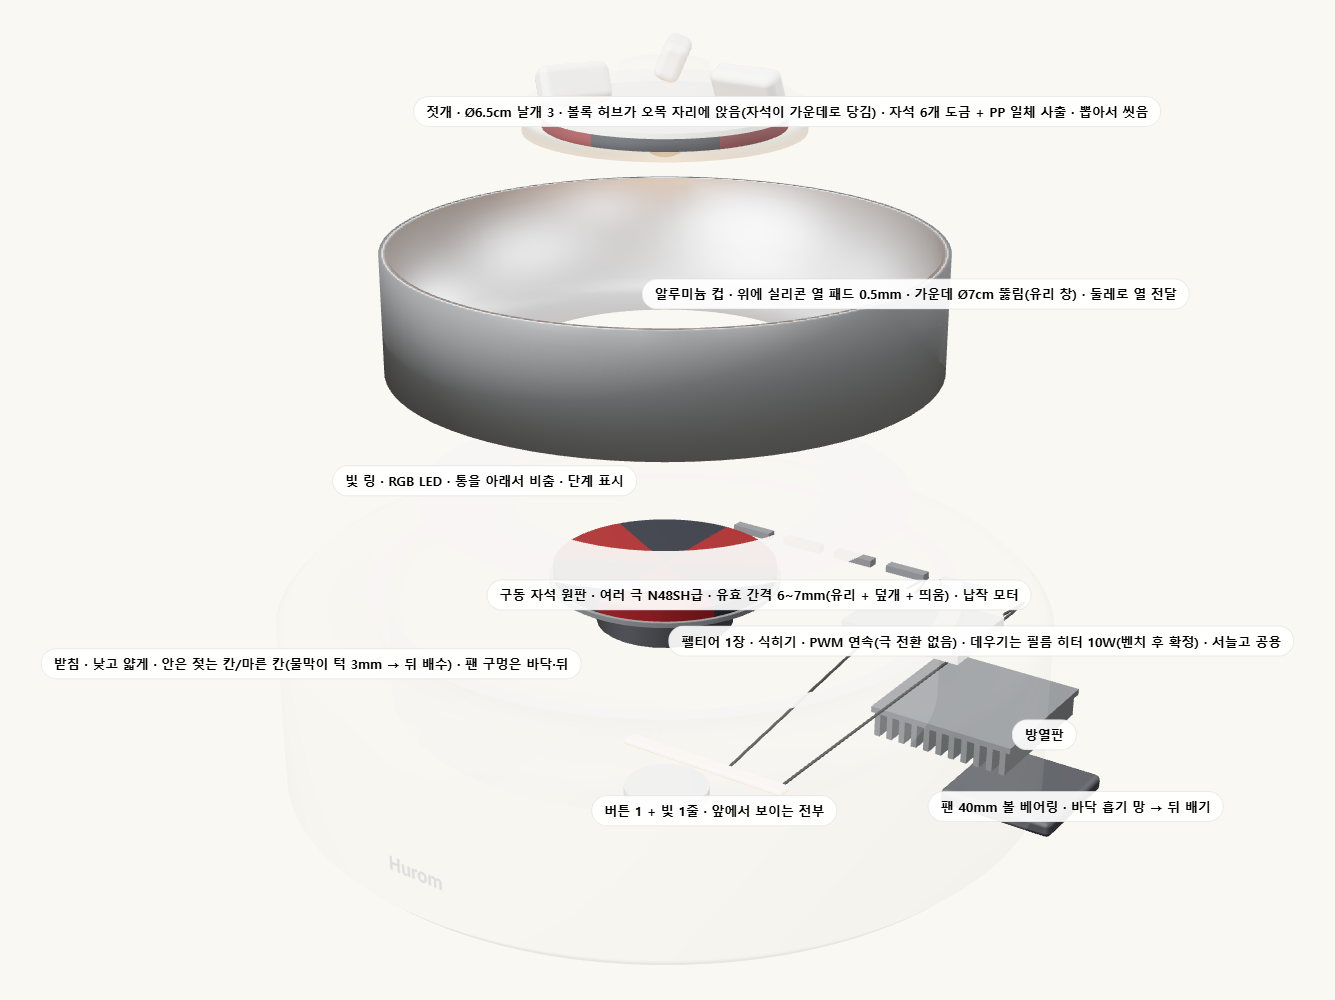
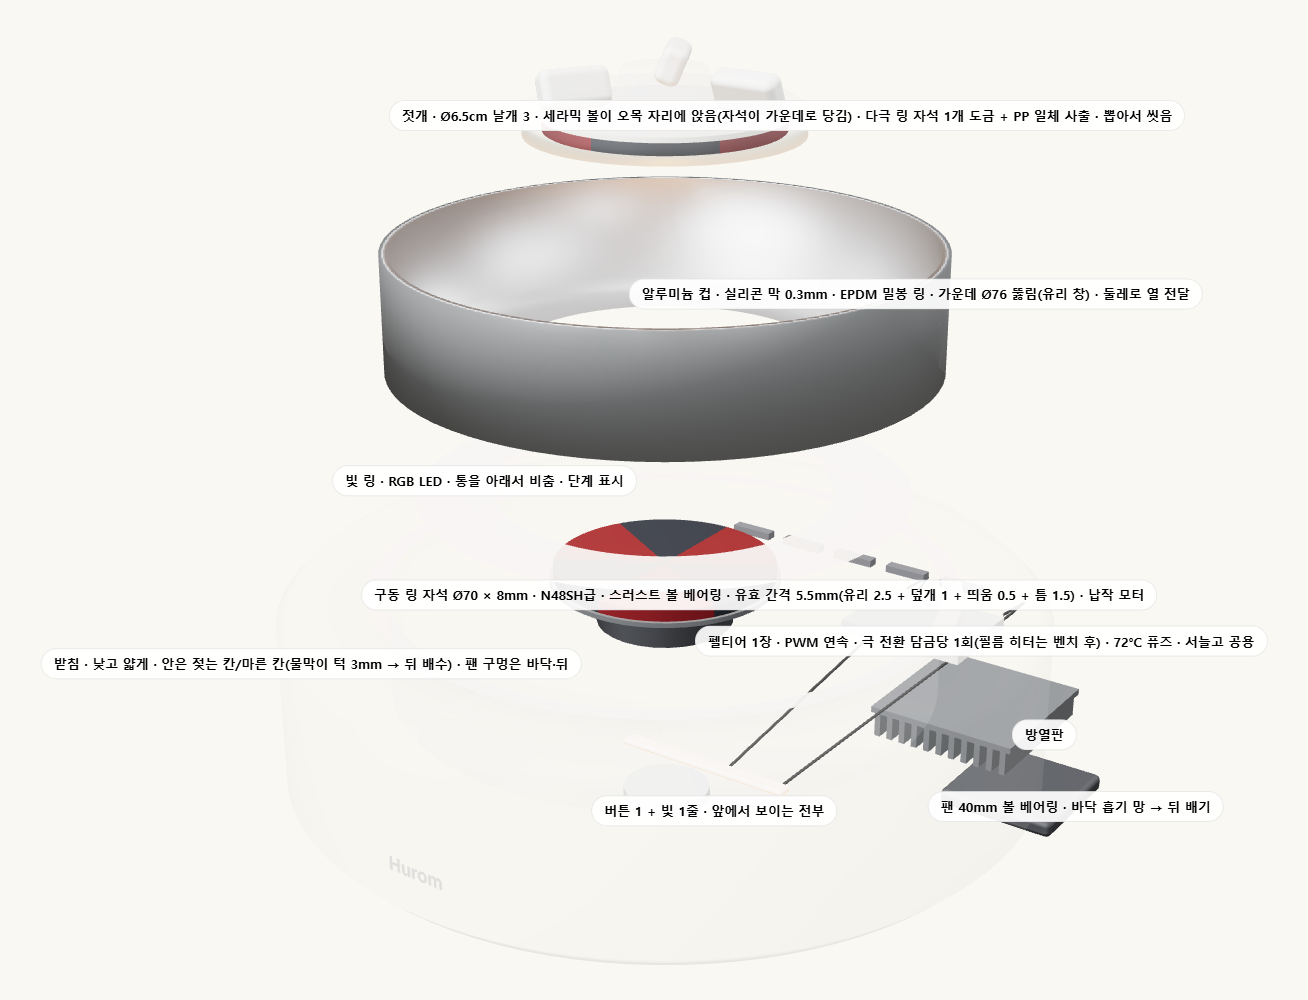
3D를 두팔 2차 구조 검토에 맞춤: 세라믹 볼 + 오목 자리 4mm · 컵 Ø76 · 구동 링 자석 Ø70×8 + 스러스트 베어링 · 간격 5.5mm · 컵 밀봉 · 펠티어 PWM/극 전환 1회/72°C 퓨즈 · 헛돎 판정 · 홀 센서 — 캡처 재생성 / 단면도 긴 라벨 두 줄(5·6·7·8·13·16)

diff --git a/explode.js b/explode.js
@@ -135,8 +135,8 @@ function build(vk) {
   parts.forEach(p => p.el.remove()); parts = []; spinners = []; woodMeshes = [];
   const BH = V.baseH, CUP_D = 0.26, CUP_Y = BH - CUP_D;    // 컵 바닥 높이
   const JH = V.jarH, JY = CUP_Y + 0.02;                     // 통 바닥 높이
-  const HR = 0.35, GT = 0.03, GAP = 0.01;                     // 컵 가운데 구멍 반지름(Ø7cm) · 유리 바닥 3mm · 틈 1mm(그림) · 실제 유효 간격은 덮개·띄움 포함 6~7mm
-  const VR = 0.325, HUBR = 0.065, DIMPLE = 0.03;              // 날개 Ø6.5cm · 젓개 볼록 허브 Ø13mm · 유리 바닥 오목 자리 깊이 3mm(돌기 없음 — 불량 재검토 2026-11-17)
+  const HR = 0.38, GT = 0.03, GAP = 0.01;                     // 컵 가운데 구멍 반지름(Ø76) · 유리 바닥 3mm · 틈(그림) · 실제 유효 간격 5.5mm(유리 2.5 + 덮개 1.0 + 띄움 0.5 + 틈 1.5) — 2차 구조 검토
+  const VR = 0.325, BALLR = 0.04, DIMPLE = 0.04;              // 날개 Ø6.5cm · 지르코니아 세라믹 볼 Ø8mm · 유리 바닥 오목 자리 깊이 4mm(돌기 없음 — 2차 구조 검토 2026-11-17)
   M.body.color.set(V.baseColor); M.body.roughness = V.baseRough; M.body.clearcoat = V.baseClear;
 
   /* 1. 받침 몸통 — 낮고 얇게. 앞에는 버튼 1 + 빛 1줄만. 팬 구멍은 바닥·뒤 */
@@ -159,7 +159,7 @@ function build(vk) {
   {
     const g = new THREE.Group();
     const cup = lathe([[HR, CUP_Y - 0.02], [V.cupR, CUP_Y - 0.02], [V.cupR, BH + 0.005], [V.cupR - 0.02, BH + 0.005], [V.cupR - 0.02, CUP_Y], [HR, CUP_Y]], M.alu, 72); g.add(cup);
-    part('알루미늄 컵 · 위에 실리콘 열 패드 0.5mm · 가운데 Ø7cm 뚫림(유리 창) · 둘레로 열 전달', g, [0, 0.85, 0], new THREE.Vector3(V.cupR, BH, 0), true);
+    part('알루미늄 컵 · 실리콘 막 0.3mm · EPDM 밀봉 링 · 가운데 Ø76 뚫림(유리 창) · 둘레로 열 전달', g, [0, 0.85, 0], new THREE.Vector3(V.cupR, BH, 0), true);
   }
   /* 3. 빛 링 — 컵 바닥의 RGB LED 링. 품목 색으로 통을 아래서 비추고, 숨쉬기·고정·깜빡임으로 단계를 알림 */
   {
@@ -175,7 +175,7 @@ function build(vk) {
     const innerP = inset(prof, 0.035); innerP[0] = [0, 0.035];
     const innerM = lathe(innerP, M.glass, 96); innerM.material = M.glass;
     g.add(outer, innerM);
-    const dimple = new THREE.Mesh(new THREE.TorusGeometry(HUBR + 0.01, 0.008, 12, 48), M.glass); dimple.rotation.x = Math.PI / 2; dimple.position.y = GT + 0.004; g.add(dimple);   // 유리 바닥 오목 자리(반구 · 깊이 3mm) — 테두리만 그림. 돌기(핀)는 뿌리 응력 때문에 없앰
+    const dimple = new THREE.Mesh(new THREE.TorusGeometry(BALLR + 0.015, 0.008, 12, 48), M.glass); dimple.rotation.x = Math.PI / 2; dimple.position.y = GT + 0.004; g.add(dimple);   // 유리 바닥 오목 자리(반구 · 깊이 4mm) — 테두리만 그림. 돌기(핀)는 뿌리 응력 때문에 없앰
     // 눈금 2줄(과일 · 설탕) — 가는 띠
     const fillY = JH * (V.jar === 'wide' ? 0.66 : 0.7);
     const syrup = lathe(syrupProfile(prof, fillY), M.syrup, 96); g.add(syrup);
@@ -190,18 +190,18 @@ function build(vk) {
       f.position.set(Math.cos(a) * rr, y + 0.03, Math.sin(a) * rr); f.rotation.set(rnd(), rnd() * 3, rnd()); fruitG.add(f);
     }
     g.position.y = JY;
-    part(`유리 통 · 약 2L · ${V.jar === 'onggi' ? '항아리형(배 Ø16 · 입 Ø12)' : V.jar === 'cyl' ? '원통 Ø14' : '넓적 Ø18'} × ${Math.round(JH * 10)}cm · 붕규산 3.3 · 구멍 없음 · 바닥 가운데 오목 자리(깊이 3mm)`, g, [0, 1.9, 0], new THREE.Vector3(V.mouthR + 0.1, JH * 0.75, 0));
+    part(`유리 통 · 약 2L · ${V.jar === 'onggi' ? '항아리형(배 Ø16 · 입 Ø12)' : V.jar === 'cyl' ? '원통 Ø14' : '넓적 Ø18'} × ${Math.round(JH * 10)}cm · 붕규산 3.3 · 구멍 없음 · 바닥 가운데 오목 자리(깊이 4mm) + 세라믹 볼`, g, [0, 1.9, 0], new THREE.Vector3(V.mouthR + 0.1, JH * 0.75, 0));
   }
-  /* 5. 젓개 — Ø6.5cm 날개 3 · 바닥 볼록 허브가 유리 오목 자리에 앉아 제자리에서 돎(자석이 가운데로 당김) · 자석 6개는 도금 후 PP 일체 사출(이음매 없음) · LSR 덮기 */
+  /* 5. 젓개 — Ø6.5cm 날개 3 · 바닥 가운데 지르코니아 세라믹 볼이 유리 오목 자리에 앉아 제자리에서 돎(자석이 가운데로 당김) · 다극 링 자석 1개는 도금 후 PP 일체 사출(이음매 없음) · LSR 덮기 */
   {
     const g = new THREE.Group();
     const body = lathe([[0, 0], [VR, 0], [VR, 0.06], [VR - 0.03, 0.08], [0.12, 0.08], [0.1, 0.15], [0, 0.15]], M.siliconeT, 64); g.add(body);   // 실리콘 겉몸(반투명으로 그림) — 핀 구멍 없음
-    const hub = new THREE.Mesh(new THREE.SphereGeometry(HUBR, 32, 16, 0, Math.PI * 2, Math.PI / 2, Math.PI / 2), M.pp); hub.position.y = 0.002; g.add(hub);   // 볼록 허브(PP) — 유리 오목 자리에 앉음
+    const ball = new THREE.Mesh(new THREE.SphereGeometry(BALLR, 24, 16), M.pp); ball.position.y = 0.01; g.add(ball);   // 지르코니아 세라믹 볼(식품용) — 젓개에 박혀 유리 오목 자리에 앉음
     for (let i = 0; i < 6; i++) { const seg = new THREE.Mesh(new THREE.CylinderGeometry(VR - 0.045, VR - 0.045, 0.028, 48, 1, false, i * Math.PI / 3, Math.PI / 3), i % 2 ? M.magnetS : M.magnet); seg.position.y = 0.026; g.add(seg); }   // 6극 자석 원판(N·S 번갈아) — 유리 바닥에 가장 가깝게
     const ppCap = new THREE.Mesh(new THREE.CylinderGeometry(VR - 0.04, VR - 0.04, 0.012, 48), M.pp); ppCap.position.y = 0.047; g.add(ppCap);   // PP 봉입 덮개
     for (let i = 0; i < 3; i++) { const h = new THREE.Group(); h.rotation.y = i * Math.PI * 2 / 3; const b = new THREE.Mesh(new RoundedBoxGeometry(VR - 0.16, 0.09, 0.06, 2, 0.02), M.silicone); b.position.set((VR + 0.1) / 2 + 0.01, 0.12, 0); b.rotation.x = 0.4; h.add(b); g.add(h); }   // 날개 3 · 끝 둥글게
-    g.position.y = JY + GT - DIMPLE * 0.5; g.userData.slow = true; spinners.push(g);   // 허브가 오목 자리에 반쯤 잠김
-    part('젓개 · Ø6.5cm 날개 3 · 볼록 허브가 오목 자리에 앉음(자석이 가운데로 당김) · 자석 6개 도금 + PP 일체 사출 · 뽑아서 씻음', g, [0, 1.35, 0], new THREE.Vector3(VR, 0.08, 0));
+    g.position.y = JY + GT - DIMPLE * 0.6; g.userData.slow = true; spinners.push(g);   // 볼이 오목 자리에 잠김
+    part('젓개 · Ø6.5cm 날개 3 · 세라믹 볼이 오목 자리에 앉음(자석이 가운데로 당김) · 다극 링 자석 1개 도금 + PP 일체 사출 · 뽑아서 씻음', g, [0, 1.35, 0], new THREE.Vector3(VR, 0.08, 0));
   }
   /* 6. 뚜껑 — 얹어 누르는 식 · 가운데 한 방향 밸브 · 손잡이(나무 안) */
   {
@@ -224,7 +224,7 @@ function build(vk) {
     disc.userData.slow = true; spinners.push(disc); g.add(disc);
     const mh = Math.max(0.08, dy - DT / 2 - 0.012 - 0.1);
     const mot = new THREE.Mesh(new THREE.CylinderGeometry(0.17, 0.17, mh, 28), M.dark); mot.position.y = dy - DT / 2 - 0.012 - mh / 2; g.add(mot);   // 납작 기어드 모터(또는 코일판)
-    part('구동 자석 원판 · 여러 극 N48SH급 · 유효 간격 6~7mm(유리 + 덮개 + 띄움) · 납작 모터', g, [0, 0.3, 0], new THREE.Vector3(VR - 0.05, dy, 0), true);
+    part('구동 링 자석 Ø70 × 8mm · N48SH급 · 스러스트 볼 베어링 · 유효 간격 5.5mm(유리 2.5 + 덮개 1 + 띄움 0.5 + 틈 1.5) · 납작 모터', g, [0, 0.3, 0], new THREE.Vector3(VR - 0.05, dy, 0), true);
   }
   /* 8. 펠티어 — 컵 바닥 뒤쪽에 1장 · 극 전환으로 데우기/식히기 (서늘고·해동기 공용) */
   const PZ = -(V.cupR * 0.72);   // 컵 가운데 Ø7cm는 뚫려 있어 펠티어는 둘레(뒤쪽)에
@@ -232,7 +232,7 @@ function build(vk) {
     const g = new THREE.Group();
     const tec = new THREE.Mesh(new THREE.BoxGeometry(0.4, 0.04, 0.3), M.peltier); tec.position.set(0, CUP_Y - 0.045, PZ); g.add(tec);
     [[-0.17], [0.17]].forEach(([x]) => { const w = tube([new THREE.Vector3(x, CUP_Y - 0.045, PZ - 0.2), new THREE.Vector3(x, CUP_Y - 0.06, PZ - 0.35), new THREE.Vector3(x * 0.5, 0.1, 0.5)], 0.004, M.wireB, 20); g.add(w); });
-    part('펠티어 1장 · 식히기 · PWM 연속(극 전환 없음) · 데우기는 필름 히터 10W(벤치 후 확정) · 서늘고 공용', g, [0, -0.35, -0.9], new THREE.Vector3(0.2, CUP_Y - 0.045, PZ), true);
+    part('펠티어 1장 · PWM 연속 · 극 전환 담금당 1회(필름 히터는 벤치 후) · 72°C 퓨즈 · 서늘고 공용', g, [0, -0.35, -0.9], new THREE.Vector3(0.2, CUP_Y - 0.045, PZ), true);
   }
   /* 9. 방열판 */
   {
@@ -255,7 +255,7 @@ function build(vk) {
     const g = new THREE.Group();
     const pcb = new THREE.Mesh(new THREE.BoxGeometry(0.5, 0.015, 0.22), M.pcb); pcb.position.set(0, 0.1, V.cupR * 0.78); g.add(pcb);
     [[-0.12, 0.08], [0.1, 0.06], [0.18, 0.04]].forEach(([x, s]) => { const c = new THREE.Mesh(new THREE.BoxGeometry(s, 0.02, s), M.chip); c.position.set(x, 0.118, V.cupR * 0.78); g.add(c); });
-    part('제어 보드 · 마른 칸 · 품목 일정표 · NTC · 온습도 · 홀 센서(눌리는 컵으로 통 감지)', g, [-0.5, -0.5, 1.2], new THREE.Vector3(0.25, 0.1, V.cupR * 0.78), true);
+    part('제어 보드 · 마른 칸 · 헛돎 판정(토크 방향) · 품목 일정표 · NTC · 온습도 · 홀 센서(테두리 누름 핀, 구동 자석과 30mm↑)', g, [-0.5, -0.5, 1.2], new THREE.Vector3(0.25, 0.1, V.cupR * 0.78), true);
   }
   /* 12. 버튼 1 + 빛 1줄 — 앞 윗면 */
   {
